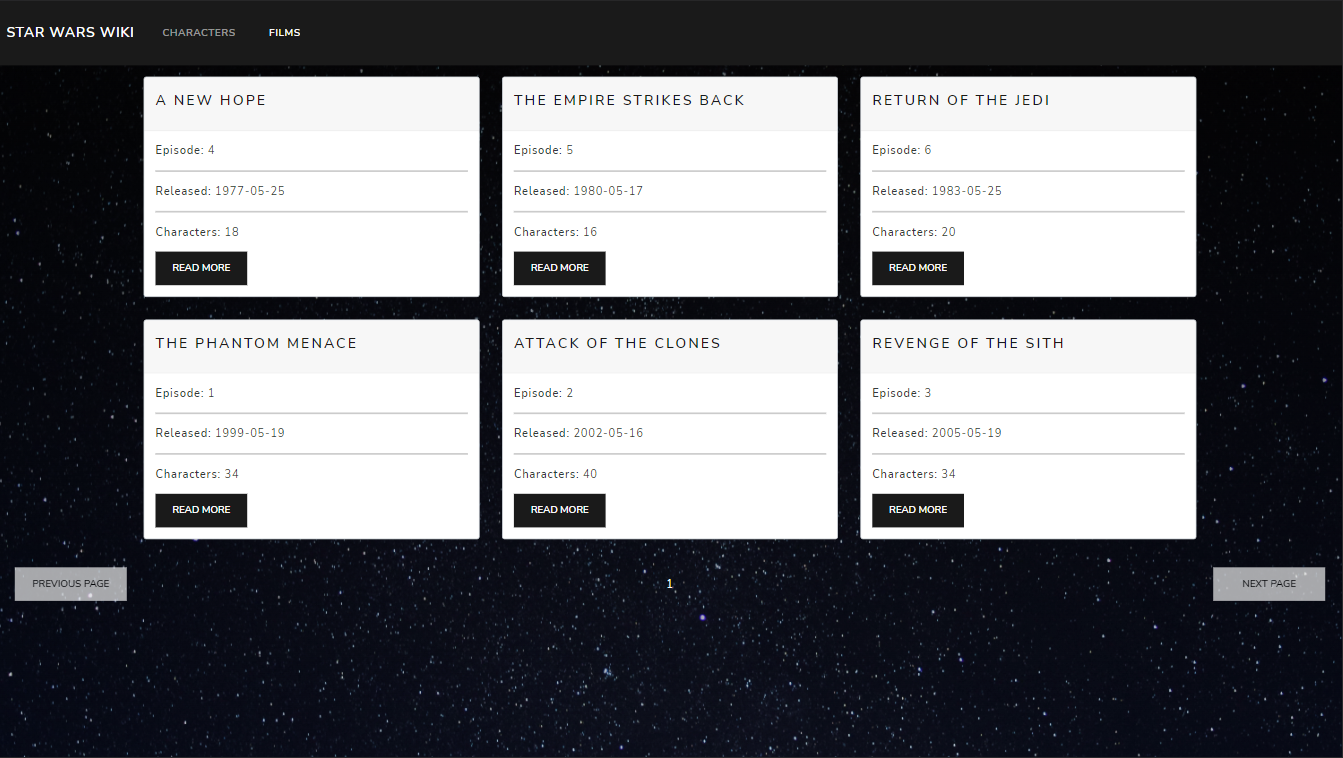
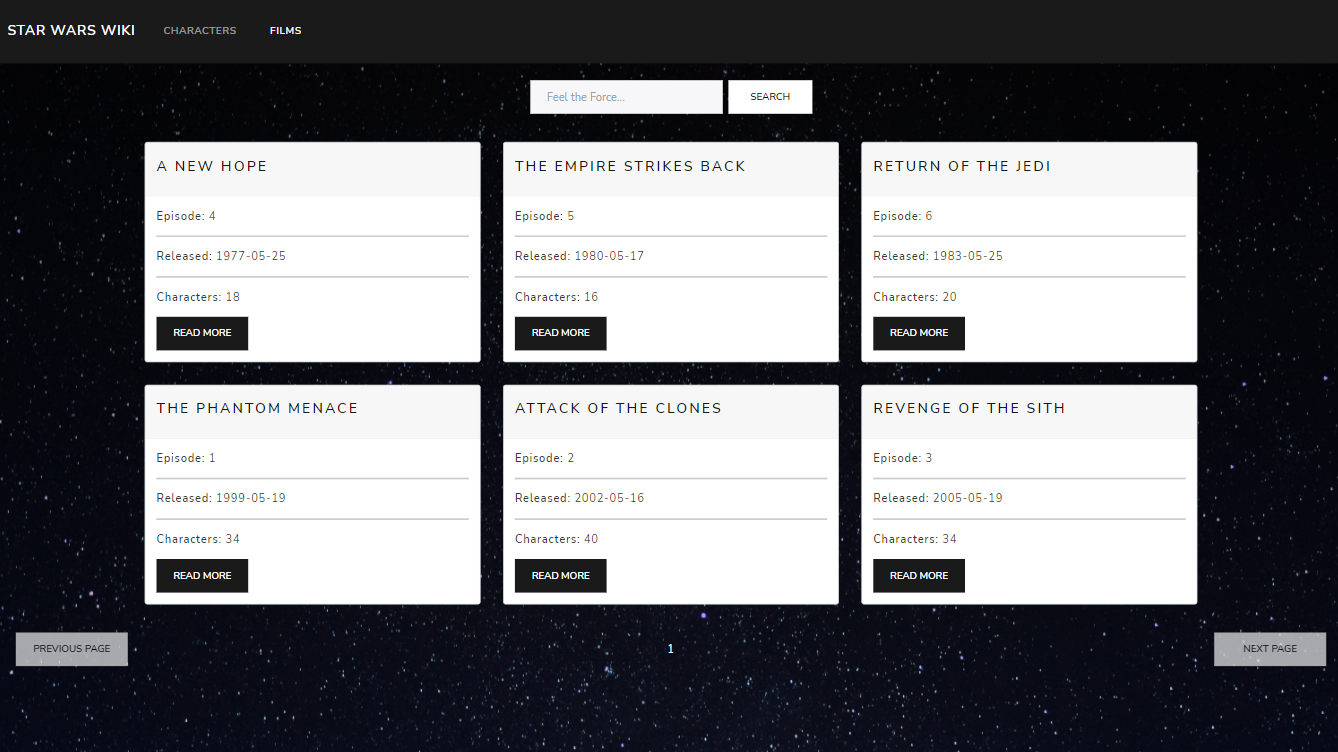
added searchbar in every page

diff --git a/src/pages/Homepage/Homepage.jsx b/src/pages/Homepage/Homepage.jsx
@@ -1,41 +1,3 @@
-import { useRef, useState } from 'react'
-import { useSearchParams } from 'react-router-dom'
-import SwapiAPI from '../../services/SwapiAPI'
-
 export default function Homepage() {
-	const [searchInput, setSearchInput] = useState('')
-	const [searchResult, setSearchResult] = useState(null)
-	const [page, setPage] = useState(0)
-	const [loading, setLoading] = useState(false)
-	const [searchParams, setSearchParams] = useSearchParams()
-	const searchInputRef = useRef()
-
-	const query = searchParams.get('query')
-
-	const useTheForce = async (searchQuery, page = 0) => {
-		setLoading(true)
-		setSearchResult(null)
-
-		const data = await SwapiAPI.getPage(searchQuery, page)
-		setSearchResult(data)
-
-		setLoading(false)
-	}
-
-	return (
-		<>
-			<div className='d-flex justify-content-center mt-4'>
-				<form className='d-flex'>
-					<input
-						className='form-control me-sm-2'
-						type='text'
-						placeholder='Feel the Force...'
-					/>
-					<button className='btn btn-secondary my-2 my-sm-0' type='submit'>
-						Search
-					</button>
-				</form>
-			</div>
-		</>
-	)
+	return <></>
 }

diff --git a/src/components/SearchBar.jsx b/src/components/SearchBar.jsx
@@ -1,0 +1,41 @@
+import { useRef, useState } from 'react'
+import { useSearchParams } from 'react-router-dom'
+import SwapiAPI from '../services/SwapiAPI'
+
+export default function SearchBar() {
+	const [searchInput, setSearchInput] = useState('')
+	const [searchResult, setSearchResult] = useState(null)
+	const [page, setPage] = useState(0)
+	const [loading, setLoading] = useState(false)
+	const [searchParams, setSearchParams] = useSearchParams()
+	const searchInputRef = useRef()
+
+	const query = searchParams.get('query')
+
+	const useTheForce = async (searchQuery, page = 0) => {
+		setLoading(true)
+		setSearchResult(null)
+
+		const data = await SwapiAPI.getPage(searchQuery, page)
+		setSearchResult(data)
+
+		setLoading(false)
+	}
+
+	return (
+		<>
+			<div className='d-flex justify-content-center m-4'>
+				<form className='d-flex'>
+					<input
+						className='form-control me-sm-2'
+						type='text'
+						placeholder='Feel the Force...'
+					/>
+					<button className='btn btn-secondary my-2 my-sm-0' type='submit'>
+						Search
+					</button>
+				</form>
+			</div>
+		</>
+	)
+}

diff --git a/src/pages/Characters/Characters.jsx b/src/pages/Characters/Characters.jsx
@@ -3,6 +3,7 @@ import { useEffect, useState } from 'react'
 import SwapiAPI from '../../services/SwapiAPI'
 import Loading from '../../components/Loading/Loading'
 import { Link } from 'react-router-dom'
+import SearchBar from '../../components/SearchBar'
 
 export default function Characters() {
 	const [characters, setCharacters] = useState([])
@@ -24,6 +25,7 @@ export default function Characters() {
 
 	return (
 		<>
+			<SearchBar />
 			<div className='d-flex flex-wrap justify-content-center'>
 				{loading && <Loading />}
 

diff --git a/src/pages/Films/Films.jsx b/src/pages/Films/Films.jsx
@@ -4,6 +4,7 @@ import SwapiAPI from '../../services/SwapiAPI'
 import Loading from '../../components/Loading/Loading'
 import { Link } from 'react-router-dom'
 import { getIdFromUrl } from '../../helpers/helpers'
+import SearchBar from '../../components/SearchBar'
 
 export default function Films() {
 	const [films, setFilms] = useState('')
@@ -23,6 +24,7 @@ export default function Films() {
 
 	return (
 		<>
+			<SearchBar />
 			<div className='d-flex flex-wrap justify-content-center'>
 				{loading && <Loading />}
 

diff --git a/src/services/SwapiAPI.jsx b/src/services/SwapiAPI.jsx
@@ -42,7 +42,7 @@ const getSingleFilm = async id => {
 	}
 }
 
-const getPage = async (query, page) => {
+const search = async (query, page) => {
 	try {
 		const res = await axios.get(`/${query}/?search=${page}`)
 		return res.data
@@ -57,5 +57,5 @@ export default {
 	getCharacters,
 	getSingleCharacter,
 	getSingleFilm,
-	getPage,
+	search,
 }

diff --git a/README.md b/README.md
@@ -1,5 +1,7 @@
 # Star Wars Wiki
 
+Build a website with React and using [SWAPI](https://swapi.dev/)(Star Wars API)
+
 ### Languages used:
 
 - JSX
@@ -12,7 +14,14 @@
 
 ## Assignment
 
+A simple webpage with characters and films from the Star Wars universe.
+User should be able to click on specific film and character to get more info.
+
 #### Requirement
+
+- React
+- React Router
+- Use Axios for API
 
 #### Time limit
 
@@ -25,4 +34,4 @@
 
 ## Printscreen
 
-<img src="" width=100%>
+<img src="https://github.com/R4YLx/star-wars-wiki/blob/main/src/assets/scrn.png" width=100%>
